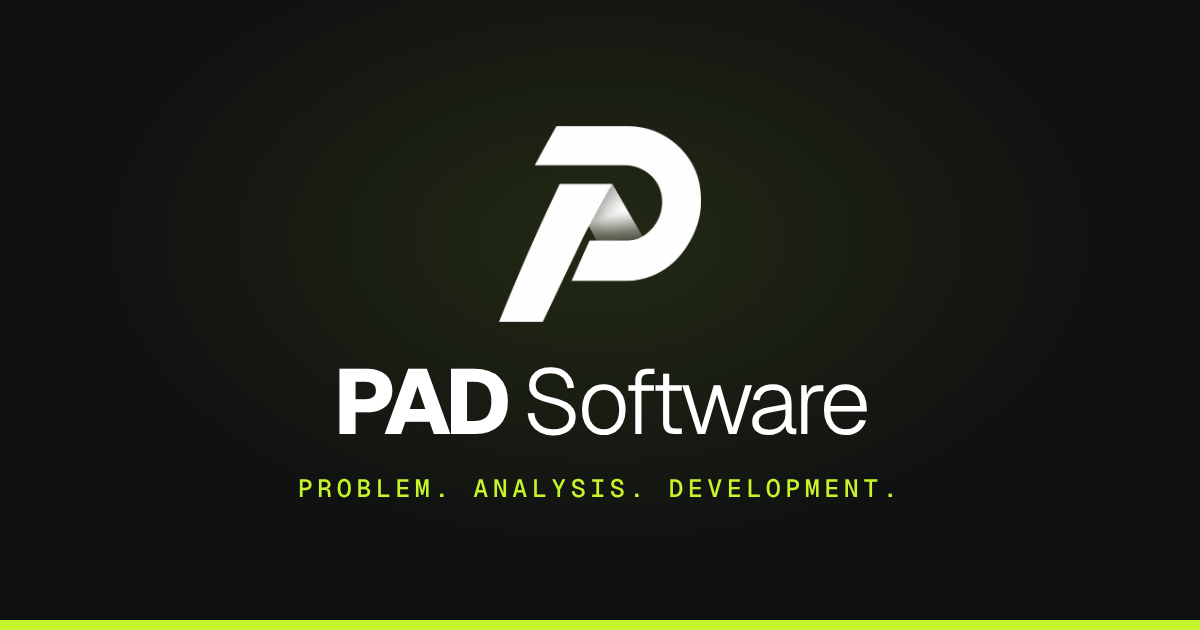
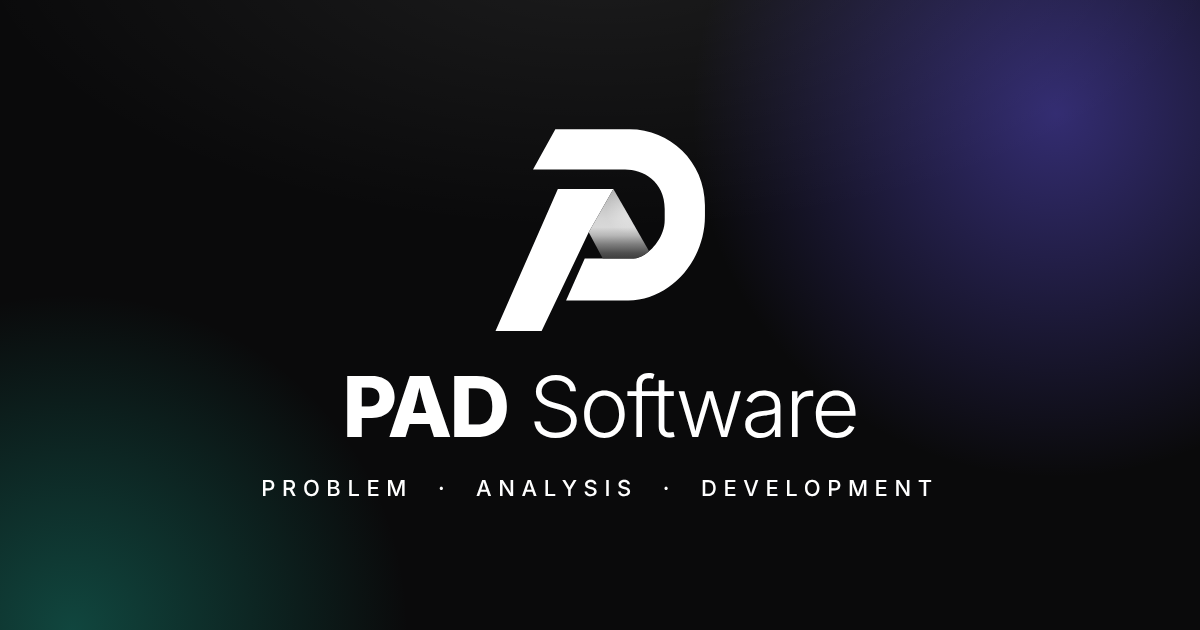
Startseite: laufender Punkt auf der Linie, Leiste über Hell schwarz und blass beim Scrollen, schwarzer Kopf niedriger, BauPad-Name neben dem Symbol; neues Tab- und Vorschaubild
- Arbeitsweise: Punkt am Anfang, Schnittpunkte bei Schritt 2 und 3; ein Lichtpunkt läuft die Linie entlang, hält an jedem Schnittpunkt, verschwindet am Ende und beginnt von vorne
- Leiste: über hellem Grund schwarzes Glas (Logo und Schrift bleiben weiß); nicht ganz oben verblasst sie, Maus/Antippen holt sie zurück
- Tab- und App-Symbol mit ?v=2, damit Browser das neue Logo laden; Vorschaubild für geteilte Links neu (neues Logo, Violett und Petrol)

Claude-Session: https://claude.ai/code/session_01VEHzUNwXEhP2XVWUq7Sqvm

diff --git a/src/site/site.css b/src/site/site.css
@@ -216,6 +216,21 @@
 :is(.ps-site, .ps-chrome) .ps-nav a:hover {
   background: rgba(255, 255, 255, 0.08);
 }
+/* Website: nicht ganz oben → die Leiste verblasst; Maus darüber, Antippen, Tastatur oder offenes Menü holen sie zurück */
+.ps-site .ps-bar {
+  transition:
+    background-color 0.35s ease,
+    border-color 0.35s ease,
+    opacity 0.35s ease;
+}
+.ps-site .ps-header.scrolled:not(.awake, .open, :focus-within) .ps-bar {
+  opacity: 0.45;
+}
+@media (hover: hover) {
+  .ps-site .ps-header.scrolled:hover .ps-bar {
+    opacity: 1;
+  }
+}
 /* Website: Leiste aus zartem weißem Liquid Glass auf dem dunklen Grund – Logo, Links und Schrift bleiben weiß */
 .ps-site .ps-bar {
   border-color: rgba(255, 255, 255, 0.28);
@@ -769,9 +784,10 @@ body:has(.ps-home) {
   flex-direction: column;
   justify-content: flex-end;
   max-width: 1000px;
-  min-height: calc(min(82vh, 760px) - 86px);
+  /* niedriger schwarzer Kopf: gut die Hälfte des Bildschirms statt fast alles */
+  min-height: calc(min(60vh, 560px) - 86px);
   margin: 0 auto;
-  padding: 48px clamp(4px, 3.6vw, 40px) clamp(48px, 10vh, 104px);
+  padding: 40px clamp(4px, 3.6vw, 40px) clamp(40px, 7vh, 72px);
 }
 /* PAD-Zeichen rechts, ganz sichtbar und bündig mit dem Inhalt: groß und ganz zart, mittig darauf das Glas-Zeichen */
 .ph-mark {
@@ -779,7 +795,7 @@ body:has(.ps-home) {
   top: 50%;
   right: 0;
   z-index: -1;
-  height: min(75%, 440px);
+  height: min(82%, 380px);
   aspect-ratio: 859 / 830;
   transform: translateY(-50%);
   pointer-events: none;
@@ -962,8 +978,19 @@ body:has(.ps-home) {
   align-items: center;
   gap: clamp(20px, 4vw, 48px);
 }
-.ph-app-icon {
-  margin-bottom: 16px;
+.ph-prod-head {
+  display: flex;
+  align-items: center;
+  gap: 18px;
+}
+.ph-prod-head .ph-app-icon {
+  flex: none;
+}
+.ps-home .ph-prod-head h2 {
+  margin: 0 0 4px;
+}
+.ps-home .ph-prod-head .ph-tagline {
+  margin: 0;
 }
 .ph-tag {
   display: inline-block;
@@ -1080,14 +1107,35 @@ body:has(.ps-home) {
     0 0 0 4px rgba(var(--ps-c1), 0.16),
     0 0 14px rgba(var(--ps-c1), 0.45);
 }
-.ph-steps li:nth-child(2)::before {
+/* Schritt 2 und 3: nur ein kleiner Schnittpunkt quer zur Linie */
+.ph-steps li + li::before {
+  left: 5.75px;
+  width: 1.5px;
+  border-radius: 1px;
   background: #3e7dbf;
+  box-shadow: none;
 }
 .ph-steps li:nth-child(3)::before {
   background: var(--ps-acc2);
+}
+/* laufender Lichtpunkt (Weg und Zeit in HomePage.tsx) */
+.ph-steps-box {
+  position: relative;
+}
+.ph-steps-run {
+  position: absolute;
+  top: 0;
+  left: 0;
+  width: 13px;
+  height: 13px;
+  border-radius: 50%;
+  background: var(--ps-acc);
   box-shadow:
-    0 0 0 4px rgba(var(--ps-c2), 0.18),
-    0 0 14px rgba(var(--ps-c2), 0.45);
+    0 0 0 4px rgba(var(--ps-c1), 0.14),
+    0 0 16px rgba(var(--ps-c1), 0.55);
+  opacity: 0;
+  pointer-events: none;
+  will-change: transform, opacity;
 }
 
 .ps-site .ph-mail {
@@ -1101,61 +1149,14 @@ body:has(.ps-home) {
   text-decoration: underline;
 }
 
-/* Leiste über hellem Grund: helles Glas, schwarze Schrift, Anmelden schwarz (Maus darüber → dunkelgrau) */
+/* Leiste über hellem Grund: schwarzes Glas – Logo, Schrift und Anmelden bleiben weiß wie oben */
 .ps-site .ps-header.on-light .ps-bar {
-  border-color: rgba(255, 255, 255, 0.9);
-  background-color: rgba(255, 255, 255, 0.6);
-  background-image: linear-gradient(rgba(255, 255, 255, 0.6), rgba(255, 255, 255, 0) 60%);
+  border-color: rgba(255, 255, 255, 0.14);
+  background-color: rgba(8, 8, 10, 0.92);
+  background-image: linear-gradient(rgba(255, 255, 255, 0.08), rgba(255, 255, 255, 0) 60%);
   box-shadow:
-    inset 0 1.5px #fff,
-    0 12px 30px -14px rgba(30, 20, 80, 0.28);
-}
-.ps-site .ps-header.on-light .ps-bar a,
-.ps-site .ps-header.on-light .ps-nav-products button {
-  color: #111;
-}
-.ps-site .ps-header.on-light .ps-nav a:hover,
-.ps-site .ps-header.on-light .ps-nav-products button:hover,
-.ps-site .ps-header.on-light .ps-nav-products.is-open button {
-  background: rgba(0, 0, 0, 0.06);
-}
-.ps-site .ps-header.on-light .ps-logo img {
-  filter: invert(1);
-}
-.ps-site .ps-header.on-light .ps-menu-btn span {
-  background: #111;
-}
-.ps-site .ps-header.on-light .ps-bar :focus-visible {
-  outline-color: #111;
-}
-.ps-site .ps-header.on-light .ps-login {
-  border-color: #111;
-  background-color: #111;
-  background-image: none;
-  color: #fff !important;
-  box-shadow: 0 8px 20px -10px rgba(0, 0, 0, 0.45);
-}
-.ps-site .ps-header.on-light .ps-login:hover,
-.ps-site .ps-header.on-light .ps-login:active {
-  border-color: #3a3a40;
-  background-color: #3a3a40;
-}
-.ps-site .ps-header.on-light .ps-products-panel {
-  border-color: rgba(255, 255, 255, 0.9);
-  background-color: rgba(255, 255, 255, 0.72);
-  background-image: none;
-  box-shadow:
-    inset 0 1px #fff,
-    0 24px 48px -20px rgba(30, 20, 80, 0.35);
-}
-.ps-site .ps-header.on-light .ps-nav .ps-product:hover {
-  background: rgba(0, 0, 0, 0.05);
-}
-.ps-site .ps-header.on-light .ps-product strong {
-  color: #111;
-}
-.ps-site .ps-header.on-light .ps-product-line {
-  color: rgba(0, 0, 0, 0.6);
+    inset 0 1px rgba(255, 255, 255, 0.18),
+    0 12px 30px -14px rgba(0, 0, 0, 0.45);
 }
 
 @media (max-width: 800px) {
@@ -1182,9 +1183,16 @@ body:has(.ps-home) {
   .ps-site .ph-steps li {
     padding: 0 0 0 32px;
   }
+  /* untereinander: Schnittpunkt liegt waagrecht über der senkrechten Linie */
+  .ph-steps li + li::before {
+    left: 0;
+    top: 5.75px;
+    width: 13px;
+    height: 1.5px;
+  }
   .ph-hero {
     min-height: 0;
-    padding-top: 72px;
+    padding-top: 48px;
   }
   /* Handy: Zeichen über dem Text statt dahinter */
   .ph-mark {
@@ -1192,8 +1200,8 @@ body:has(.ps-home) {
     top: auto;
     right: auto;
     height: auto;
-    width: min(46vw, 180px);
-    margin: 0 0 28px;
+    width: min(36vw, 140px);
+    margin: 0 0 22px;
     transform: none;
   }
   .ps-home .ps-motto {

diff --git a/src/site/pages/HomePage.tsx b/src/site/pages/HomePage.tsx
@@ -1,4 +1,4 @@
-import type { CSSProperties } from 'react';
+import { useEffect, useRef, type CSSProperties } from 'react';
 import { ToolIcon } from '../../components/ToolIcon';
 import { paths } from '../../lib/router';
 import { contactData } from '../contact-data';
@@ -61,13 +61,18 @@ export function HomePage() {
       <section id="loesungen" className="ph-win ph-prod" aria-labelledby="ph-bp-title">
         <div>
           <p className="ps-eyebrow">{h.product.eyebrow}</p>
-          <span className="ps-app-icon ph-app-icon" aria-hidden="true">
-            <span>BauPad</span>
-          </span>
-          <h2 id="ph-bp-title">
-            {h.product.name} <span className="ph-tag">{h.product.status}</span>
-          </h2>
-          <p className="ph-tagline">{h.product.tagline}</p>
+          {/* App-Symbol, daneben Name und „Die Baustelle in einer App.“ */}
+          <div className="ph-prod-head">
+            <span className="ps-app-icon ph-app-icon" aria-hidden="true">
+              <span>BauPad</span>
+            </span>
+            <div>
+              <h2 id="ph-bp-title">
+                {h.product.name} <span className="ph-tag">{h.product.status}</span>
+              </h2>
+              <p className="ph-tagline">{h.product.tagline}</p>
+            </div>
+          </div>
           {/* alle Werkzeuge wie in der App: Symbol im farbigen Feld, daneben der Name – jedes führt zur Werkzeug-Seite */}
           <ul className="ph-tools" data-testid="home-tool-list" aria-label={w.aria}>
             {TOOL_ENTRIES.map((x) => (
@@ -98,11 +103,7 @@ export function HomePage() {
       <section id="entwicklung" className="ph-sec" aria-labelledby="ph-process-title">
         <p className="ps-eyebrow">{h.process.label}</p>
         <h2 id="ph-process-title">{h.process.title}</h2>
-        <ol className="ph-steps" data-testid="home-steps">
-          {h.process.steps.map((s) => (
-            <li key={s.title}>{s.title}</li>
-          ))}
-        </ol>
+        <StepsLine steps={h.process.steps} />
       </section>
 
       <section id="kontakt" className="ph-sec" aria-labelledby="ph-contact-title">
@@ -124,5 +125,66 @@ export function HomePage() {
         </p>
       </section>
     </SiteLayout>
+  );
+}
+
+/**
+ * Arbeitsweise auf einer Linie: am Anfang ein Punkt, bei Schritt 2 und 3 nur ein kleiner Schnittpunkt.
+ * Ein Lichtpunkt läuft vom Anfang die Linie entlang, hält an jedem Schnittpunkt kurz, läuft ans Ende, verschwindet
+ * und beginnt von vorne. Die Wege werden gemessen (nebeneinander am PC, untereinander am Handy).
+ * „Bewegung reduzieren“ → kein laufender Punkt.
+ */
+function StepsLine({ steps }: { steps: { title: string }[] }) {
+  const box = useRef<HTMLDivElement>(null);
+  useEffect(() => {
+    const el = box.current;
+    if (!el || matchMedia('(prefers-reduced-motion: reduce)').matches) return;
+    const dot = el.querySelector<HTMLElement>('.ph-steps-run');
+    if (!dot || !dot.animate) return;
+    let anim: Animation | undefined;
+    const build = () => {
+      const b = el.getBoundingClientRect();
+      const ol = el.querySelector('ol')!.getBoundingClientRect();
+      const li = [...el.querySelectorAll('li')].map((x) => x.getBoundingClientRect());
+      if (li.length < 3 || !b.width) return;
+      const row = Math.abs(li[1].top - li[0].top) < 2;
+      // Mitte des Punkts bzw. Schnittpunkts jedes Schritts (13 px groß, oben links im Schritt)
+      const p = li.map((r) => [r.left - b.left + 6.5, r.top - b.top + 6.5]);
+      const end = row ? [ol.right - b.left + 8, p[0][1]] : [p[0][0], li[2].bottom - b.top + 14];
+      const at = ([x, y]: number[], s = 1) => `translate(${x}px, ${y}px) translate(-50%, -50%) scale(${s})`;
+      const c = ['#6a55f0', '#3e7dbf', '#12a58e'];
+      const move = 'cubic-bezier(.45,0,.25,1)';
+      anim?.cancel();
+      anim = dot.animate(
+        [
+          { offset: 0, transform: at(p[0], 0.4), opacity: 0, backgroundColor: c[0] },
+          { offset: 0.07, transform: at(p[0]), opacity: 1, backgroundColor: c[0], easing: move },
+          { offset: 0.25, transform: at(p[1]), opacity: 1, backgroundColor: c[1] },
+          { offset: 0.37, transform: at(p[1]), opacity: 1, backgroundColor: c[1], easing: move },
+          { offset: 0.55, transform: at(p[2]), opacity: 1, backgroundColor: c[2] },
+          { offset: 0.67, transform: at(p[2]), opacity: 1, backgroundColor: c[2], easing: 'cubic-bezier(.45,0,.6,1)' },
+          { offset: 0.86, transform: at(end, 0.5), opacity: 0, backgroundColor: c[2] },
+          { offset: 1, transform: at(end, 0.5), opacity: 0, backgroundColor: c[2] },
+        ],
+        { duration: 5000, iterations: Infinity },
+      );
+    };
+    build();
+    const ro = new ResizeObserver(build);
+    ro.observe(el);
+    return () => {
+      ro.disconnect();
+      anim?.cancel();
+    };
+  }, []);
+  return (
+    <div className="ph-steps-box" ref={box}>
+      <ol className="ph-steps" data-testid="home-steps">
+        {steps.map((s) => (
+          <li key={s.title}>{s.title}</li>
+        ))}
+      </ol>
+      <span className="ph-steps-run" aria-hidden="true" />
+    </div>
   );
 }

diff --git a/tests/e2e/projects.spec.ts b/tests/e2e/projects.spec.ts
@@ -36,6 +36,8 @@ test('Website: Startseite – Name, Motto, BauPad mit den sieben Werkzeugen, Arb
   await expect(page.locator('.ph-win .ps-eyebrow').first()).toHaveCSS('color', 'rgb(106, 85, 240)'); // auf hellem Grund dunkleres Violett
   await expect(page.locator('.ph-top .ps-eyebrow')).toHaveCSS('color', 'rgb(157, 140, 255)');
   await expect(page.getByTestId('home-steps').locator('li').last()).toBeVisible();
+  // Linie: laufender Lichtpunkt (Animation läuft endlos)
+  await expect.poll(() => page.locator('.ph-steps-run').evaluate((e) => e.getAnimations().length)).toBe(1);
   // keine Zertifikate oder Garantien behauptet
   await expect(page.locator('.ps-main')).not.toContainText(/zertifiziert|DSGVO-konform|garantiert/i);
   const card = page.getByTestId('home-product');
@@ -73,11 +75,14 @@ test('Website: Startseite – Name, Motto, BauPad mit den sieben Werkzeugen, Arb
   await page.mouse.wheel(0, 800);
   await expect.poll(() => page.evaluate(() => scrollY)).toBeGreaterThan(100);
   expect((await bar.boundingBox())!.y).toBeGreaterThanOrEqual(8); // bleibt stehen
-  // über hellem Grund: Leiste hell mit schwarzer Schrift, Anmelden schwarz
+  // über hellem Grund: Leiste schwarzes Glas, Logo und Schrift bleiben weiß; nicht ganz oben → verblasst, Maus darauf → wieder voll
   await expect(nav).toHaveClass(/on-light/);
-  await expect(nav.getByRole('link', { name: 'Kontakt', exact: true })).toHaveCSS('color', 'rgb(17, 17, 17)');
-  await expect(login).toHaveCSS('background-color', 'rgb(17, 17, 17)');
-  await expect(login).toHaveCSS('color', 'rgb(255, 255, 255)');
+  await expect(bar).toHaveCSS('background-color', 'rgba(8, 8, 10, 0.92)');
+  await expect(nav.getByRole('link', { name: 'Kontakt', exact: true })).toHaveCSS('color', 'rgba(255, 255, 255, 0.86)');
+  await expect(login).toHaveCSS('color', 'rgb(17, 17, 17)');
+  await expect(bar).toHaveCSS('opacity', '0.45');
+  await bar.hover();
+  await expect(bar).toHaveCSS('opacity', '1');
   await page.evaluate(() => scrollTo(0, 0));
   await expect(nav).not.toHaveClass(/on-light/);
   // Produkte: Fenster klappt auf (so breit wie die Links) – BauPad-Symbol, Name, Infos; Klick öffnet die BauPad-Seite
@@ -637,8 +642,8 @@ test.describe('Tab-Symbol', () => {
     const touch = () => page.locator('link[rel="apple-touch-icon"]').getAttribute('href');
     for (const p of ['./', './unternehmen', './baupad/funktionen/materialverwaltung', './en']) {
       await page.goto(p);
-      await expect.poll(icon).toBe('/icons/pad-favicon-64.png');
-      await expect.poll(touch).toBe('/icons/pad-icon-180.png');
+      await expect.poll(icon).toBe('/icons/pad-favicon-64.png?v=2');
+      await expect.poll(touch).toBe('/icons/pad-icon-180.png?v=2');
     }
     // App (Anmelden gehört zur App)
     await page.goto('./baupad/anmelden');
@@ -646,7 +651,7 @@ test.describe('Tab-Symbol', () => {
     await expect.poll(touch).toBe('/icons/icon-180.png');
     // zurück zur Website: wieder PAD
     await page.goto('./kontakt');
-    await expect.poll(icon).toBe('/icons/pad-favicon-64.png');
+    await expect.poll(icon).toBe('/icons/pad-favicon-64.png?v=2');
     // die Symbole sind erreichbar
     for (const f of ['pad-favicon-64.png', 'pad-icon-180.png', 'pad-icon-512.png', 'favicon-64.png']) expect((await page.request.get(`./icons/${f}`)).status()).toBe(200);
   });

diff --git a/src/site/seo.ts b/src/site/seo.ts
@@ -60,7 +60,7 @@ export function applyMeta(m: PageMeta) {
   setMeta('meta[property="og:type"]', { property: 'og:type', content: 'website' });
   setMeta('meta[property="og:site_name"]', { property: 'og:site_name', content: 'PAD Software' });
   setMeta('meta[property="og:locale"]', { property: 'og:locale', content: m.lang === 'de' ? 'de_AT' : 'en_GB' });
-  setMeta('meta[property="og:image"]', { property: 'og:image', content: `${SITE_ORIGIN}/og-pad-software.png` });
+  setMeta('meta[property="og:image"]', { property: 'og:image', content: `${SITE_ORIGIN}/og-pad-software.png?v=2` });
   setMeta('meta[name="twitter:card"]', { name: 'twitter:card', content: 'summary_large_image' });
   document.head.querySelectorAll('script[data-jsonld]').forEach((e) => e.remove());
   for (const obj of m.jsonLd ?? []) {

diff --git a/src/App.tsx b/src/App.tsx
@@ -233,9 +233,9 @@ function TitleReset({ route }: { route: string }) {
   return null;
 }
 
-/** Symbol im Browser-Tab: Website = PAD-Software-Logo, geöffnete App = BauPad-Logo */
+/** Symbol im Browser-Tab: Website = PAD-Software-Logo, geöffnete App = BauPad-Logo (?v=… zwingt Browser, ein geändertes Logo neu zu laden) */
 const TAB_ICONS = {
-  pad: { icon: '/icons/pad-favicon-64.png', touch: '/icons/pad-icon-180.png' },
+  pad: { icon: '/icons/pad-favicon-64.png?v=2', touch: '/icons/pad-icon-180.png?v=2' },
   baupad: { icon: '/icons/favicon-64.png', touch: '/icons/icon-180.png' },
 } as const;
 function setTabIcon(kind: keyof typeof TAB_ICONS) {
